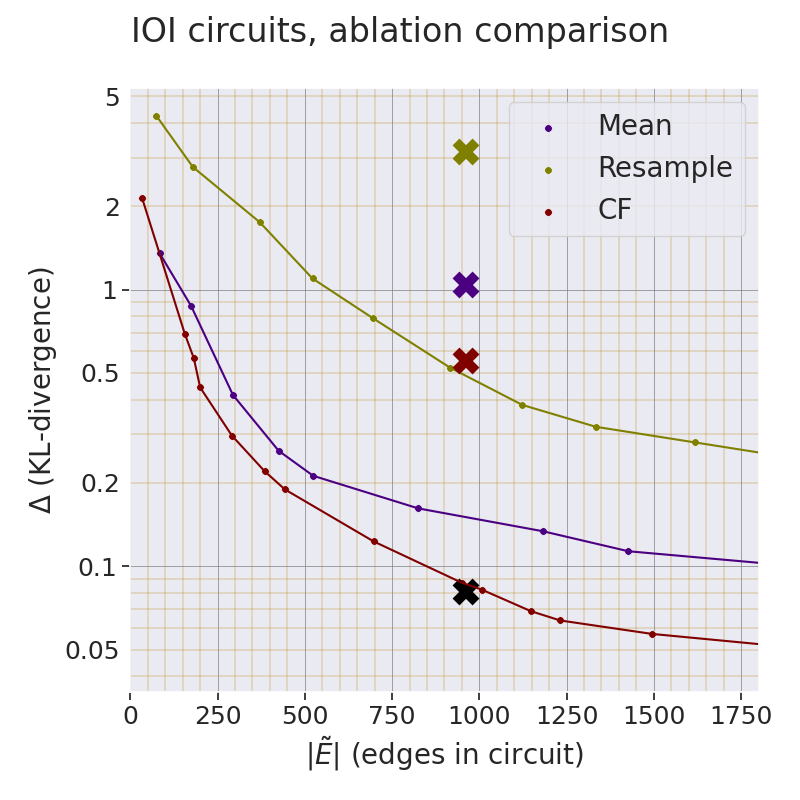
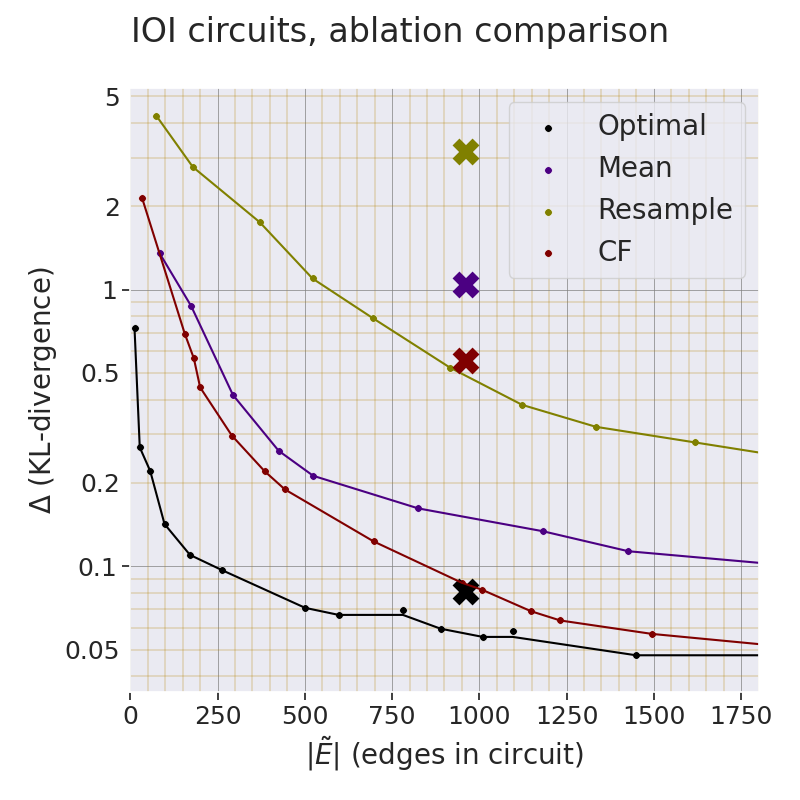
plots

diff --git a/circuit_pareto_plot.py b/circuit_pareto_plot.py
@@ -121,7 +121,7 @@ def plot_pareto(pms, log=False, suffix="", order=None, manual=False):
     plt.grid(visible=True, which='minor', color='darkgoldenrod', linewidth=0.3)
     # plt.gca().yaxis.set_major_locator(MultipleLocator(0.01)) # y gridlines every 0.5 units
     plt.xlabel(r"$|\tilde{E}|$ (edges in circuit)")
-    plt.ylabel(r"$\Delta$ (KL-divergence)")
+    plt.ylabel(r"$\Delta$ (ablation loss gap)")
 
     def myLogFormat(y,pos):
         # print(y)
@@ -239,17 +239,39 @@ for dataset, x_bound, y_bound in l2:
         plot_pareto(folders, log=log, order=[2,0,1,3], manual=True)
 
 # %%
+
+l3 = [
+    ("ioi", "cf", 0.2, 1800),
+    ("gt", "resample", 0.2, 800),
+]
+for dataset, ablation_type, x_bound, y_bound in l3:
+    root_folder = f"results/pruning/{dataset}/{ablation_type}"
+    ax = None
+    # reg_lambs = [2e-3, 1e-3, 7e-4, 5e-4, 2e-4, 1e-4]
+    folders=({
+            # "vertex": "results/pruning_vertices_auto/ioi", 
+            "UGS (ours)": (f"{root_folder}/unif", "black"), 
+            "HCGS": (f"{root_folder}/hc", "blue"), 
+            # "edges uniform window": "results/pruning/ioi/cf/unif_window", 
+            # "ACDC": (f"{root_folder}/acdc", "crimson"),
+            "EP": (f"{root_folder}/ep", "purple"),
+            # "EAP": (f"{root_folder}/eap", "green")
+        }, x_bound, y_bound, f"{dataset}/ep-demo")
+    for log in [True]:
+        plot_pareto(folders, log=log, order=[0,1,4,3,2])
+
+# %%
 fp = 'results/pruning/ioi/mean/acdc/post_training.pkl'
 with open(fp, "rb") as f:
     l = pickle.load(f)
 
-# for i, x in enumerate(l['lamb']):
-#     if x == '0.012':
-#         for k in l:
-#             l[k].pop(i)
+for i, x in enumerate(l['lamb']):
+    if x == '0.012':
+        for k in l:
+            l[k].pop(i)
 
-# with open(fp, "wb") as f:
-#     pickle.dump(l, f)
+with open(fp, "wb") as f:
+    pickle.dump(l, f)
 
 
 # %%
